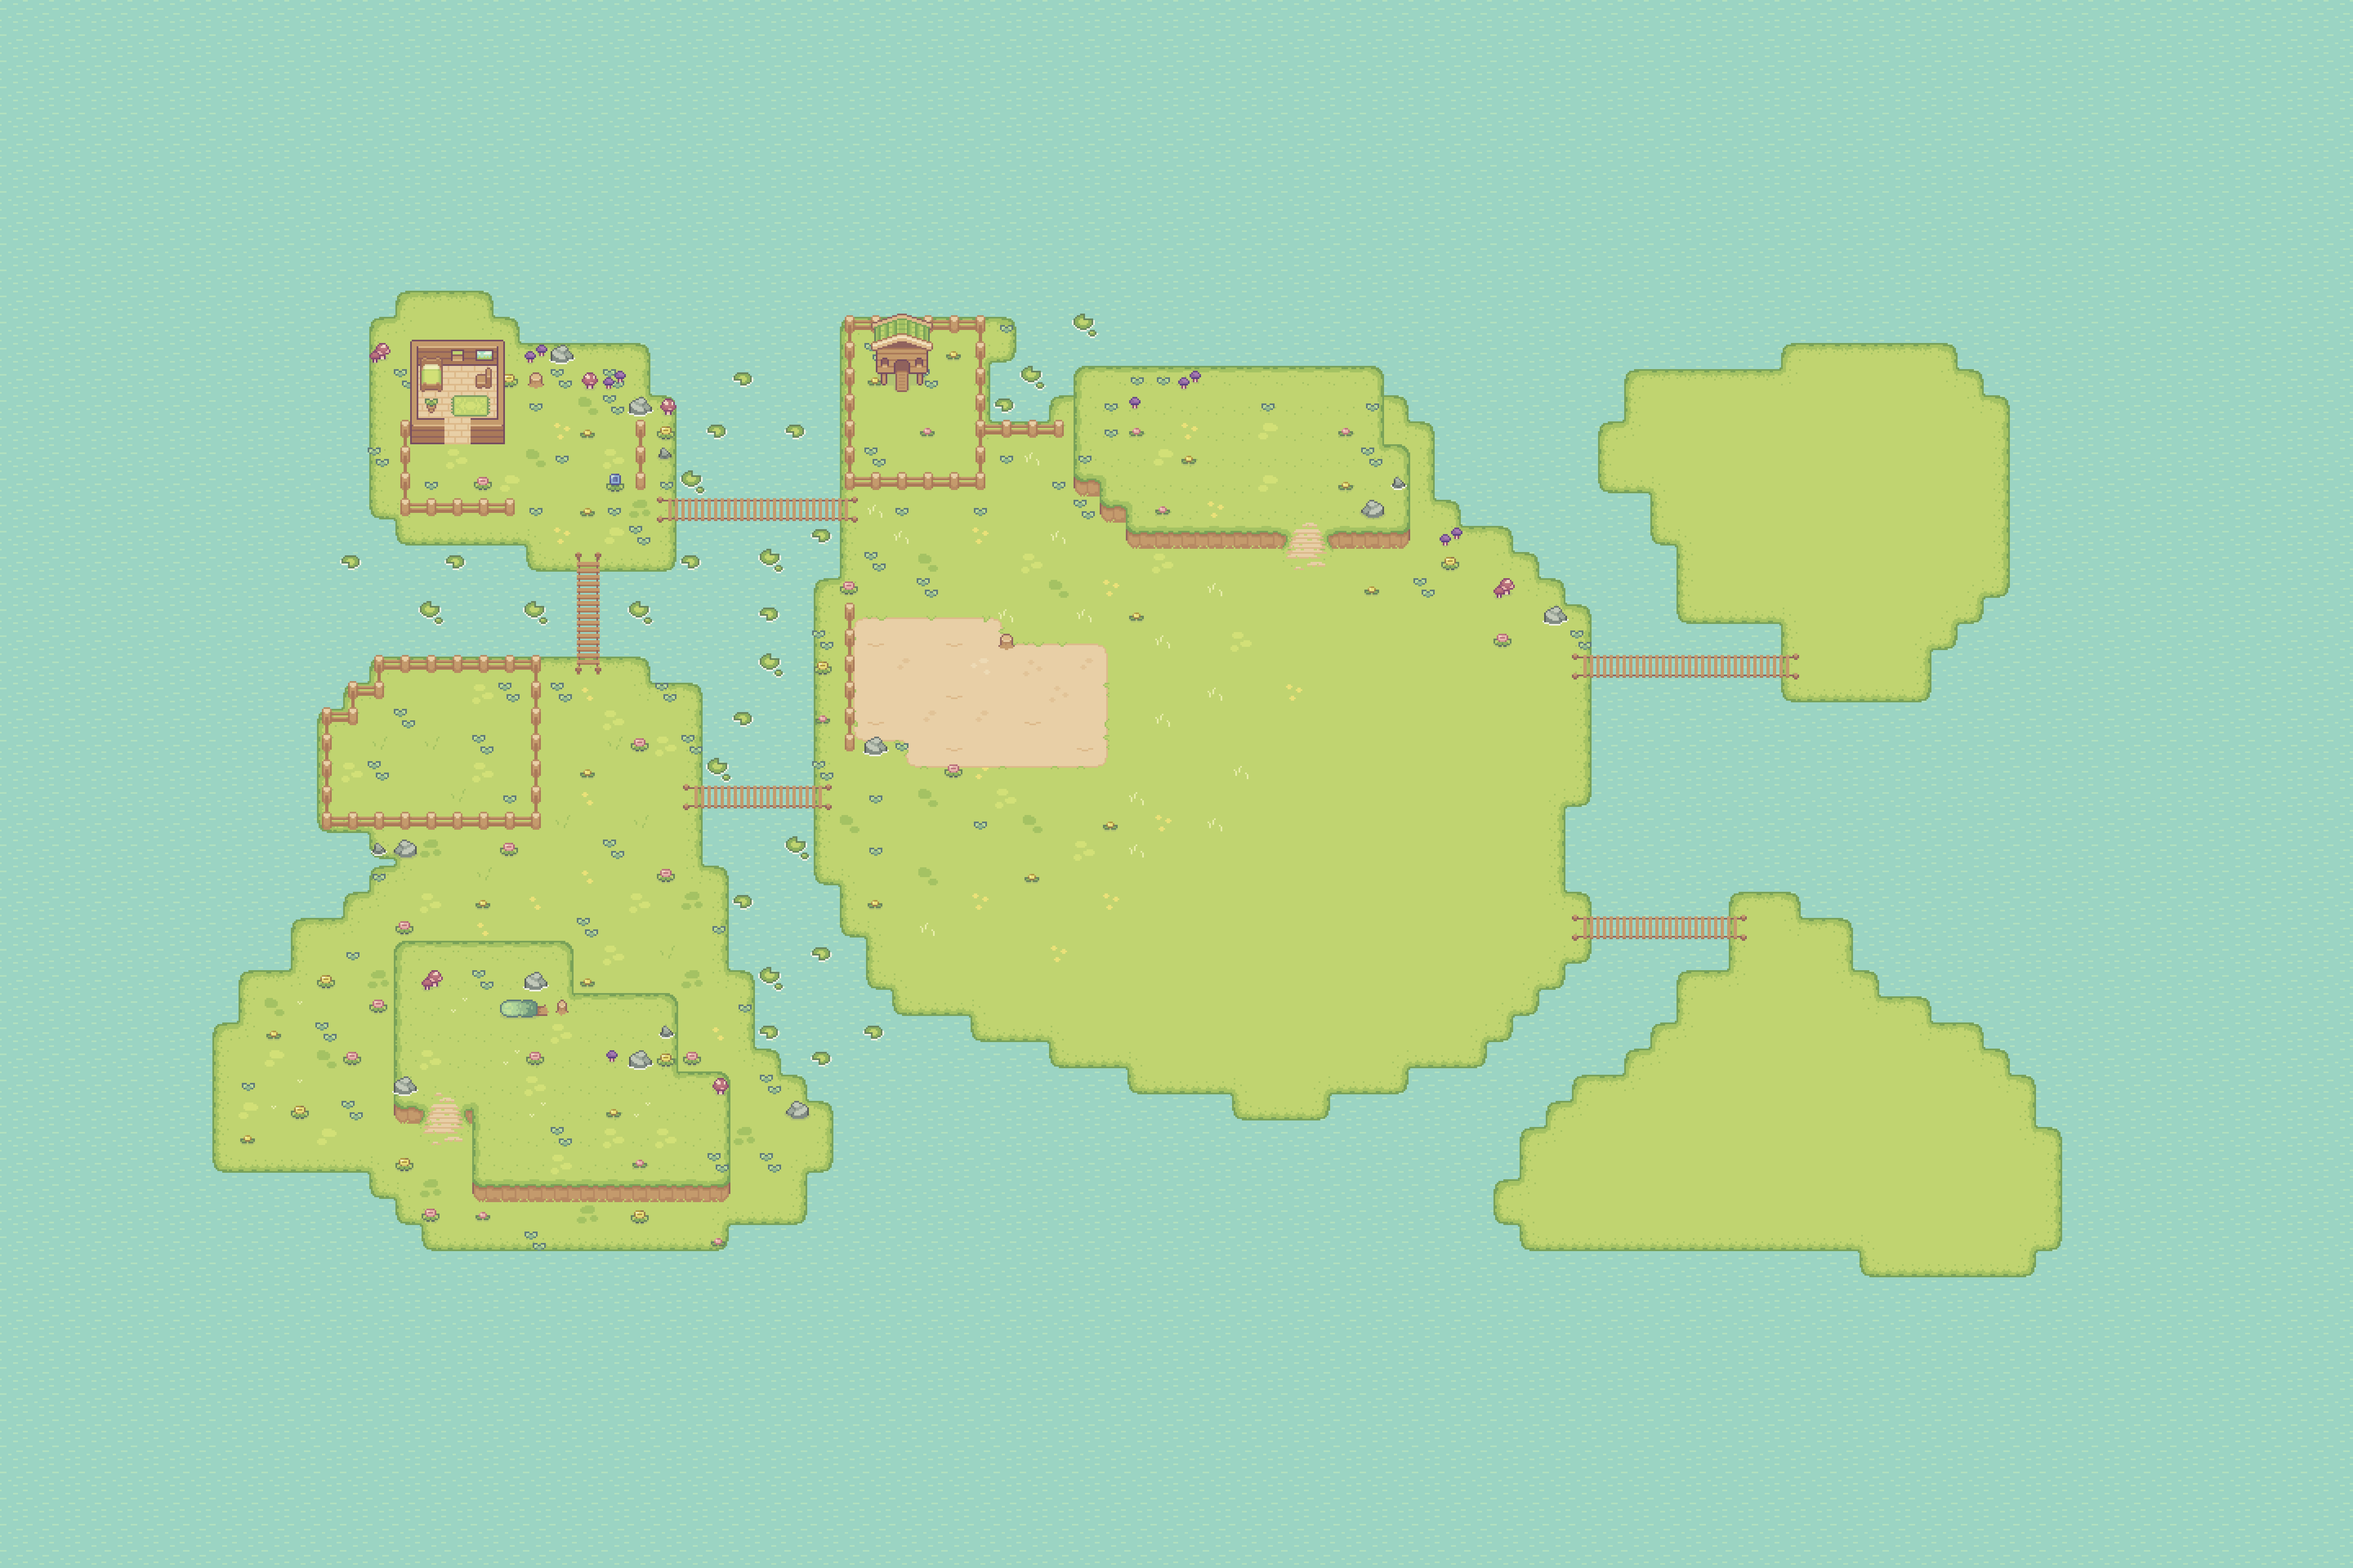
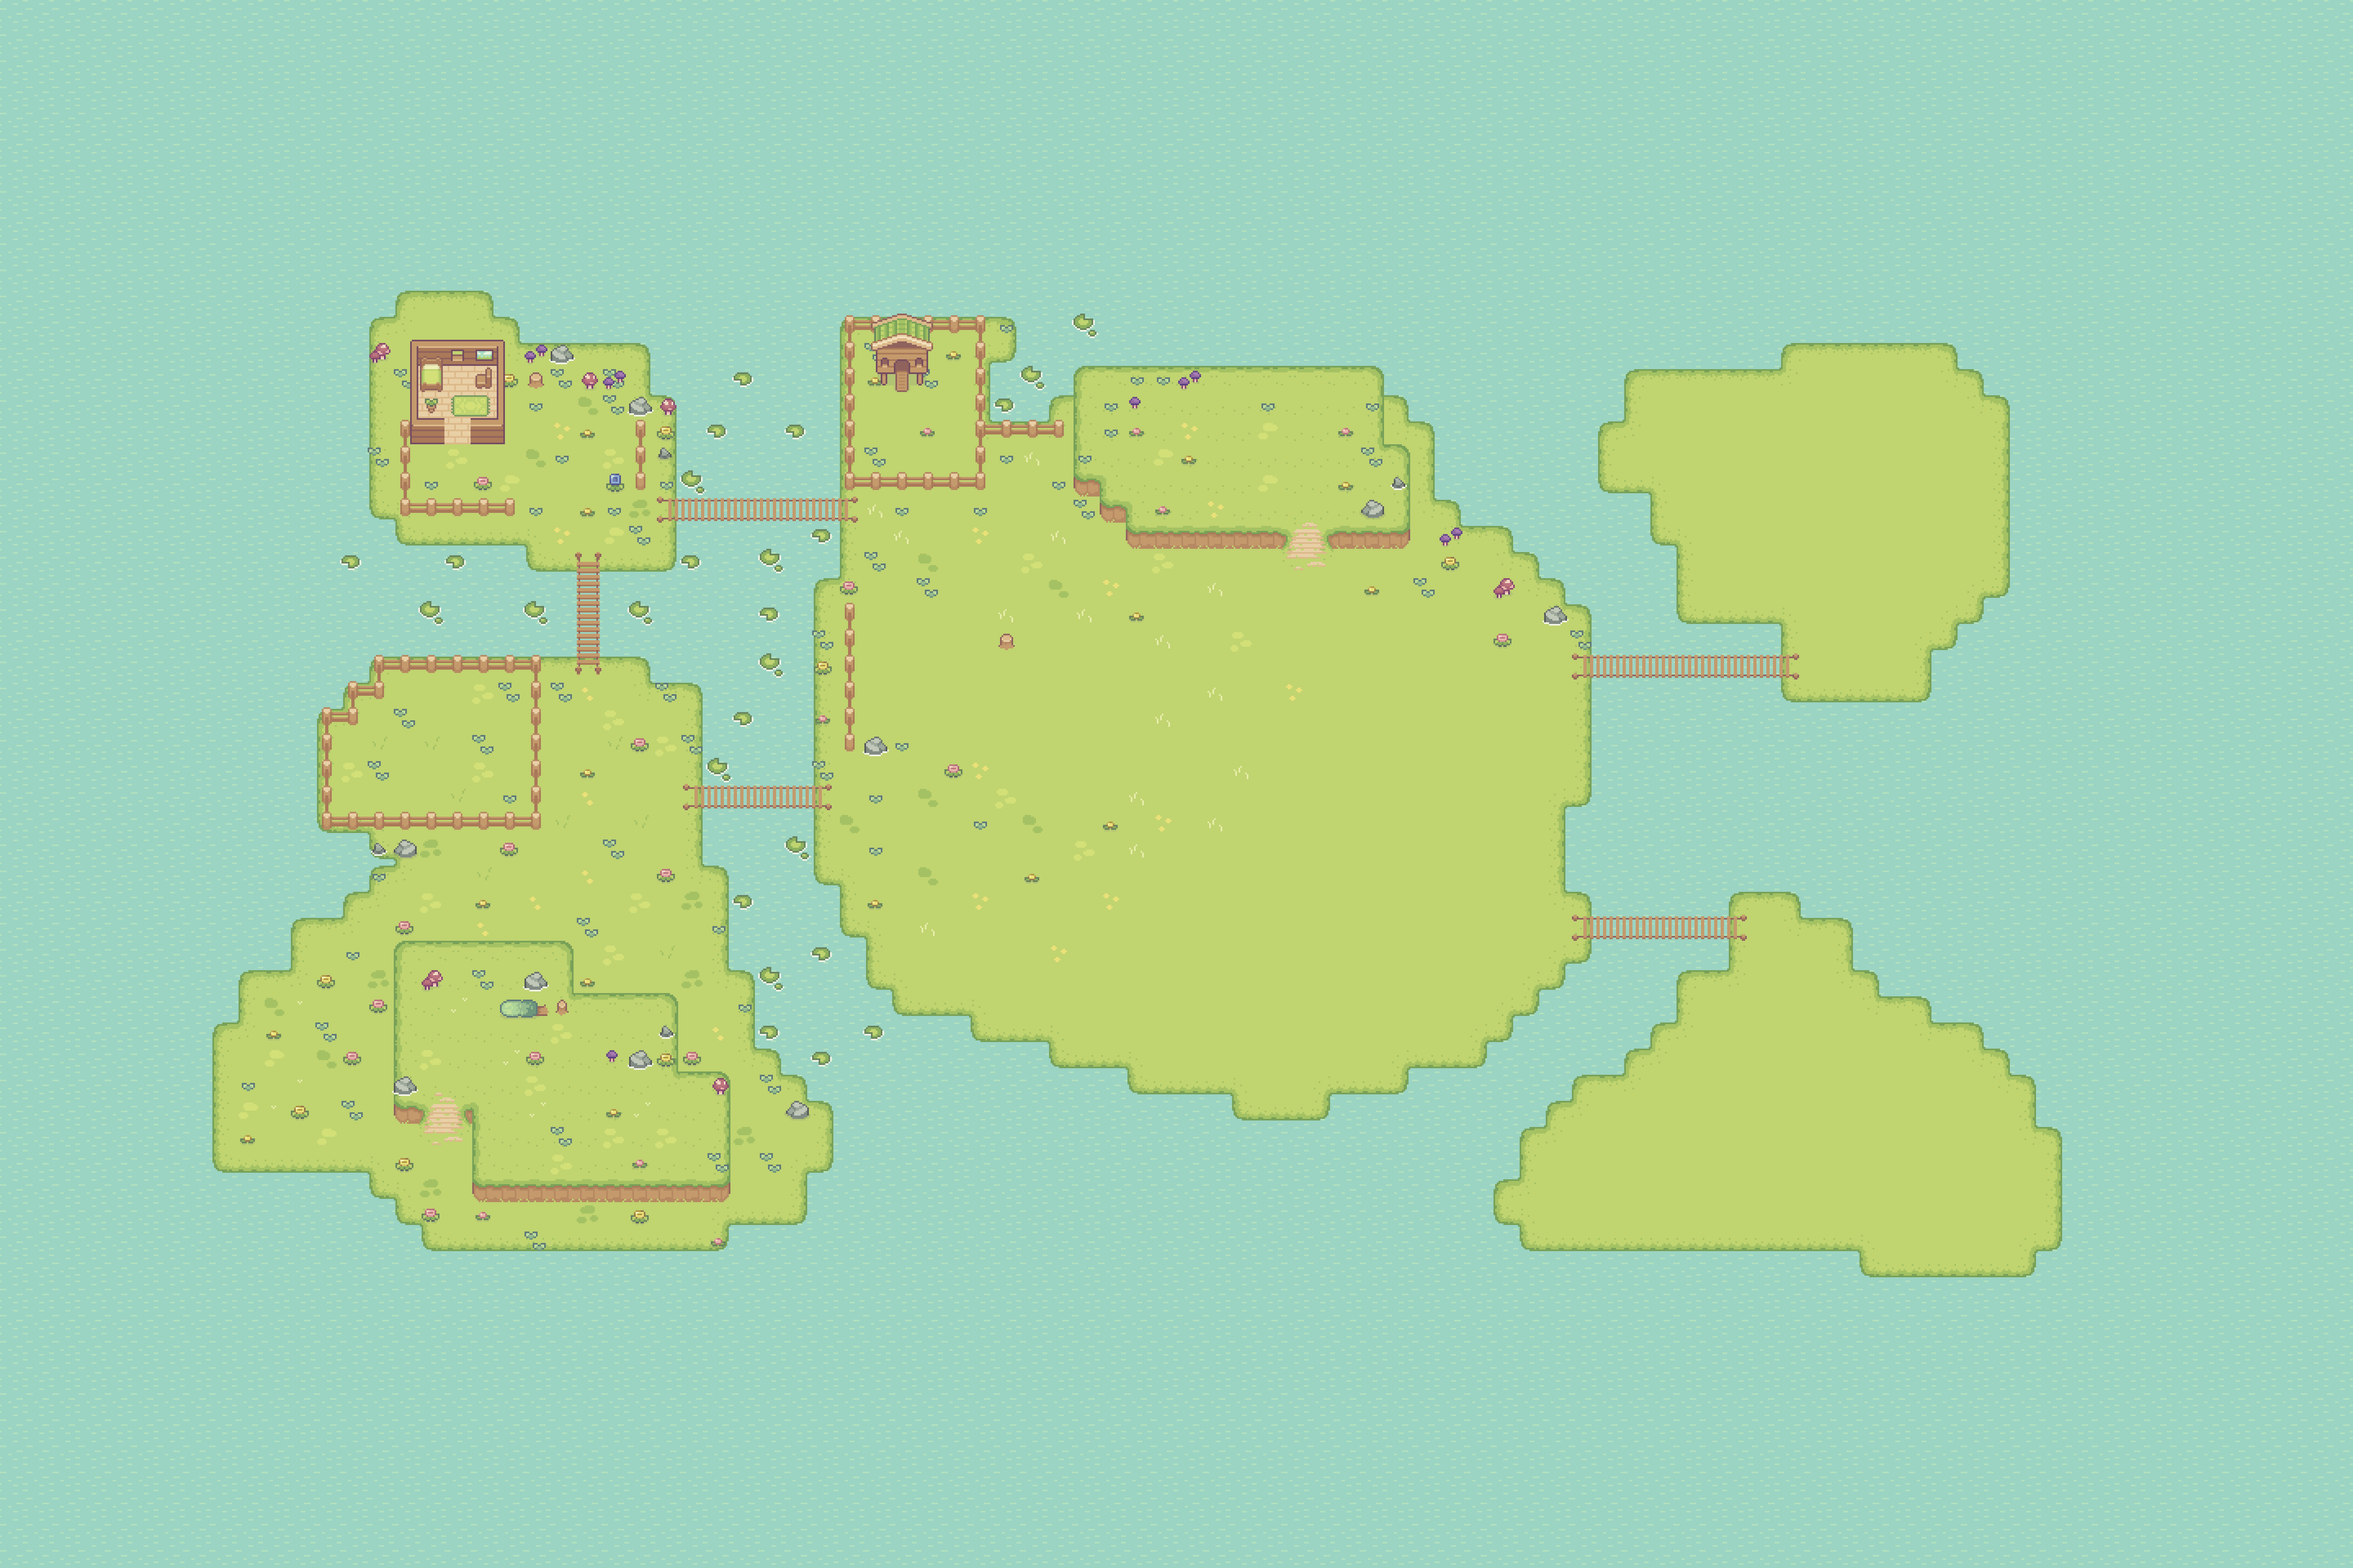
feat: 完成挖菜地逻辑

Changed region(s): [[0.3438, 0.375, 0.4688, 0.5]]

diff --git a/src/base/control/Controller.ts b/src/base/control/Controller.ts
@@ -5,6 +5,7 @@ import { getPositionFormIdStr, isHitting, withGrid } from '../../utils'
 import { AppleTree, FullTree } from '../tree/AppleTree'
 // import { PlantField } from '../Field/PlantField'
 import { Field } from '../Field/Field'
+import { PlantField } from '../Field/PlantField'
 
 interface ControllerConfig {
 	movableObjects: any[]
@@ -61,40 +62,40 @@ export class Controller {
 		return canMoving
 	}
 
-	findTargetBoundary(direction: { x?: number; y?: number }) {
-		let target: BoundaryItem | null = null
+	findTarget(list: BoundaryItem[] | PlantField[], direction: { x?: number; y?: number }) {
+		let target: BoundaryItem | PlantField | null = null
 
-		for (let i = 0; i < this.boundary.list.length; i++) {
-			const boundary = this.boundary.list[i]
+		for (let i = 0; i < list.length; i++) {
+			const item = list[i]
 			const side: { x?: number; y?: number } = {}
 			if (direction.y) {
-				side.y = boundary.y + direction.y
+				side.y = item.y + direction.y
 			} else if (direction.x) {
-				side.x = boundary.x + direction.x
+				side.x = item.x + direction.x
 			}
 			if (
 				isHitting(this.player, {
-					...boundary,
+					...item,
 					...side
 				})
 			) {
-				target = boundary
+				target = item
 				break
 			}
 		}
 		return target
 	}
 
-	findAllDirectionBoundary() {
-		let targetTreeBoundary: BoundaryItem | null = null
+	findAllDirectionBlock(list: BoundaryItem[] | PlantField[]) {
+		let targetTreeBoundary: BoundaryItem | PlantField | null = null
 		if (this.player.movingDirection === 'right') {
-			targetTreeBoundary = this.findTargetBoundary({ x: -this.moveStep })
+			targetTreeBoundary = this.findTarget(list, { x: -this.moveStep })
 		} else if (this.player.movingDirection === 'left') {
-			targetTreeBoundary = this.findTargetBoundary({ x: this.moveStep })
+			targetTreeBoundary = this.findTarget(list, { x: this.moveStep })
 		} else if (this.player.movingDirection === 'up') {
-			targetTreeBoundary = this.findTargetBoundary({ y: this.moveStep })
+			targetTreeBoundary = this.findTarget(list, { y: this.moveStep })
 		} else if (this.player.movingDirection === 'down') {
-			targetTreeBoundary = this.findTargetBoundary({ y: -this.moveStep })
+			targetTreeBoundary = this.findTarget(list, { y: -this.moveStep })
 		}
 		return targetTreeBoundary
 	}
@@ -143,7 +144,7 @@ export class Controller {
 
 	handleCuttingDownTree() {
 		this.player.selectAction('Cutting')
-		const targetTreeBoundary: BoundaryItem | null = this.findAllDirectionBoundary()
+		const targetTreeBoundary: BoundaryItem | null = this.findAllDirectionBlock(this.boundary.list)
 		const targetTree: FullTree | undefined = this.appleTrees.fullTrees.find(tree => {
 			if (targetTreeBoundary && tree.stump.boundaryBlock.id === targetTreeBoundary.id) {
 				return tree
@@ -162,11 +163,22 @@ export class Controller {
 	}
 
 	handleCreatePlantField() {
-		const nextGridIsBoundary = this.findAllDirectionBoundary()
+		const nextGridIsBoundary = this.findAllDirectionBlock(this.boundary.list)
 		if (nextGridIsBoundary === null) {
 			this.player.selectAction('Digging')
-			const newField = this.field.addField({ x: this.player.nextGrid.x, y: this.player.nextGrid.y })
-			newField && (this.movableObjects = [...this.movableObjects, newField])
+			if (this.player.diggingCount >= 3) {
+				const newField = this.field.addField({ x: this.player.nextGrid.x, y: this.player.nextGrid.y })
+				newField && (this.movableObjects = [...this.movableObjects, newField])
+				this.player.diggingCount = 0
+			}
+		}
+	}
+
+	handleRemovePlantField() {
+		const targetField = this.findAllDirectionBlock(this.field.plantFields)
+		if (targetField !== null) {
+			this.field.removeField(targetField.id)
+			this.movableObjects = this.movableObjects.filter(item => item.id !== targetField.id)
 		}
 	}
 
@@ -198,6 +210,8 @@ export class Controller {
 				this.handleMove()
 			} else if (e.key === 'p') {
 				this.handleCreatePlantField()
+			} else if (e.key === 'l') {
+				this.handleRemovePlantField()
 			} else if (e.key === 'o') {
 				this.handleCuttingDownTree()
 			}
@@ -212,7 +226,10 @@ export class Controller {
 			} else if (e.key === 's') {
 				this.keyMap.s.press = false
 			} else if (e.key === 'p') {
-				//
+				if (this.player.diggingCount !== 3) {
+					// 如果没有挖够3次，重置为0
+					this.player.diggingCount = 0
+				}
 			}
 			this.reset()
 		})

diff --git a/src/base/Player.ts b/src/base/Player.ts
@@ -48,6 +48,7 @@ export class Player {
 
 	// 挖
 	isDigging = false
+	diggingCount = 0
 
 	// 砍
 	isCutting = false
@@ -167,6 +168,12 @@ export class Player {
 			if (this.gap % 20 === 0) {
 				if (this.currentActionFrame < this.actionFrames - 1) {
 					this.currentActionFrame++
+					this.diggingCount++
+					console.log(
+						'%c [ this.diggingCount ]-172',
+						'font-size:13px; background:pink; color:#bf2c9f;',
+						this.diggingCount
+					)
 				} else {
 					this.currentActionFrame = 0
 				}

diff --git a/src/base/Field/Field.ts b/src/base/Field/Field.ts
@@ -66,7 +66,7 @@ export class Field {
 				break
 			}
 		}
-		console.log('canset', canSet)
+		// console.log('canset', canSet)
 		return canSet
 	}
 
